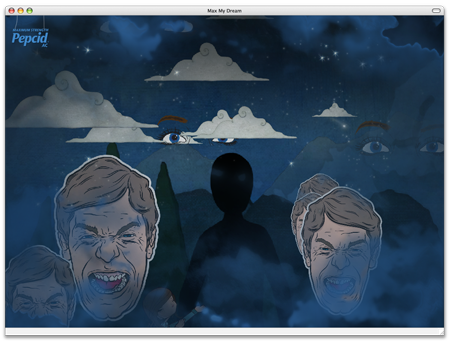
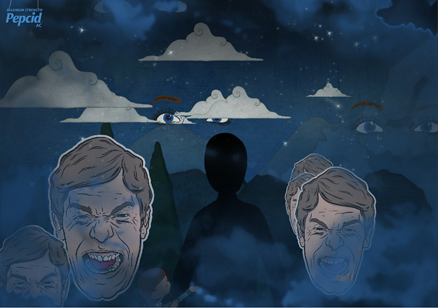
Max My Dream: larger stills from the portfolio entry, with the parsing screen

diff --git a/apps/site/src/content/advertising/max-my-dream.md b/apps/site/src/content/advertising/max-my-dream.md
@@ -6,26 +6,26 @@ partners: [JWT]
 year: 2011
 role: Flash developer
 images:
-  - src: /advertising/max-my-dream/dream-input.png
-    width: 450
-    height: 343
-    alt: The Max My Dream home screen. A full moon over a night sky behind a curtain, and a text box reading “I dreamed that… an army of intelligent sea robots invaded the universe and took over the city!” with 62 characters left and a Max my Dream button.
+  - src: /advertising/max-my-dream/dream-input.jpg
+    width: 624
+    height: 424
+    alt: The Max My Dream home screen. A full moon over a night sky behind a curtain, and a text box reading “I dreamed that… an army of intelligent sea robots invaded the universe and took over the city!” with a character count and a Max my Dream button.
     caption: Typing a dream, up to 140 characters
-  - src: /advertising/max-my-dream/sea-robots.png
-    width: 450
-    height: 343
+  - src: /advertising/max-my-dream/parsing.jpg
+    width: 624
+    height: 424
+    alt: The dream being read. Words from the sentence, army, invaded, intelligent, sea robots, took, drift around an alarm clock whose face fills in as it works.
+    caption: Reading the dream, word by word
+  - src: /advertising/max-my-dream/sea-robots.jpg
+    width: 624
+    height: 424
     alt: The same dream played back. A row of green wind-up robots wades through stylised waves in front of a dark city skyline, with glowing pink brains floating in the sky.
     caption: “An army of intelligent sea robots…”
   - src: /advertising/max-my-dream/faces.png
-    width: 450
-    height: 343
+    width: 438
+    height: 308
     alt: Another dream. A silhouetted figure stands among large illustrated faces grimacing in anger, under clouds with eyes peering out of the sky.
     caption: The dreamer in silhouette, among the cast
-  - src: /advertising/max-my-dream/share.png
-    width: 450
-    height: 343
-    alt: The end of a dream. Under the line “Start dreaming, heartburn free,” a box reads “Your dream now lives at” with a short maxmydream.com URL and buttons for Facebook, Twitter, email, and embed, then Replay Dream and Max another Dream.
-    caption: Every dream got its own link
 summary: Type a dream in 140 characters and watch it play. A language parser read each sentence for its characters, actions, and mood, and Flash animated it from a library of illustrated scenes.
 recognition:
   - Clio Health 2011, Bronze, Innovative Media
